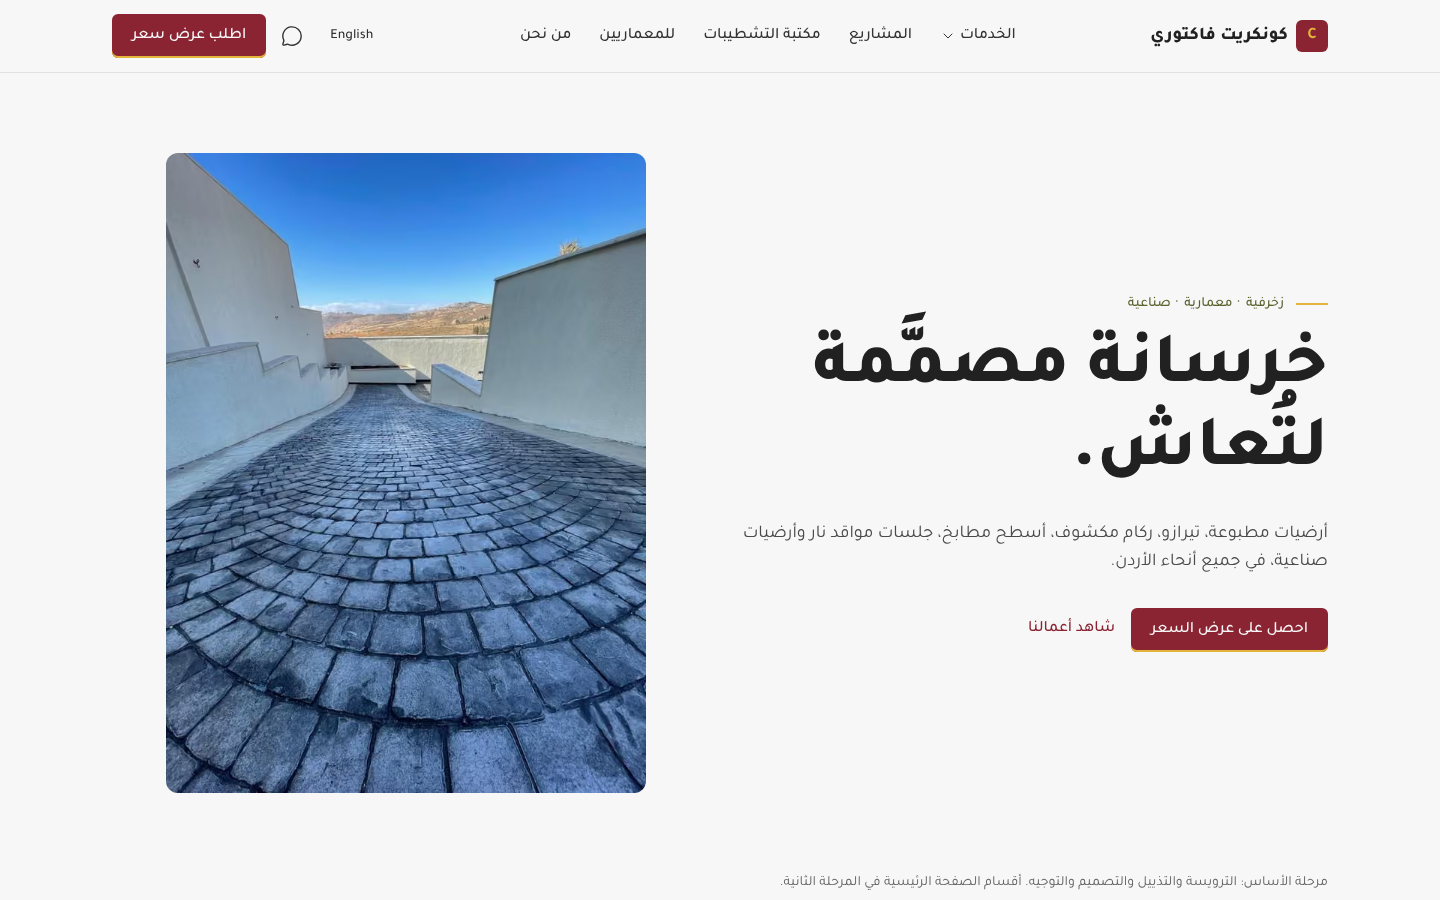
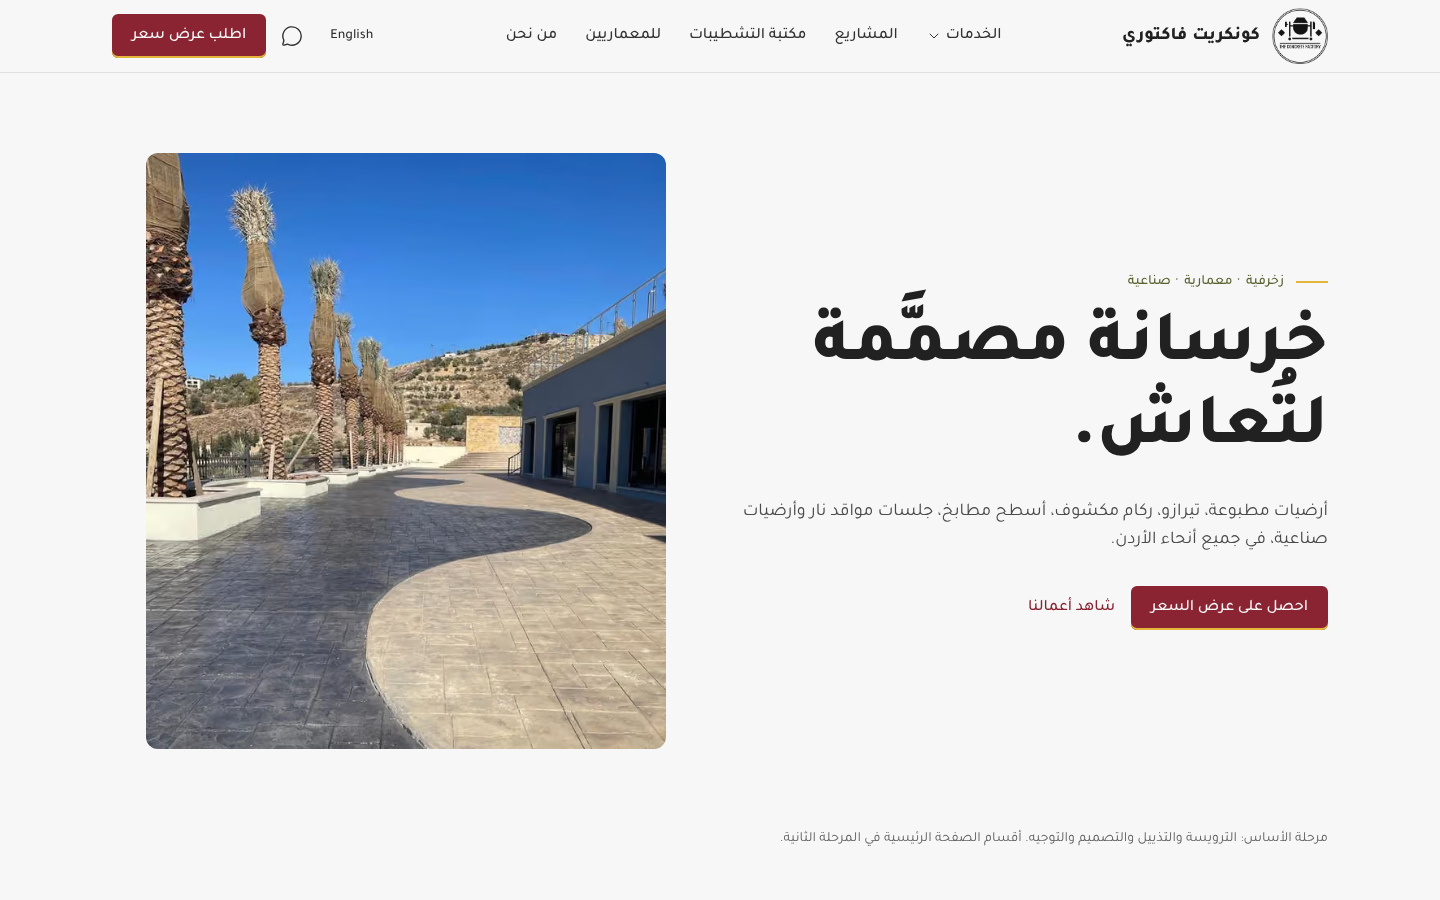
New hero photo, Oswald for all English text, 7 more photos
Hero: palm-lined plaza with two-tone stamped concrete.
Oswald replaces IBM Plex for body copy; Arabic stays Tajawal.
Countertop island photo cropped to remove people.

Claude-Session: https://claude.ai/code/session_019MF9PxEp6YBqT2vbAWwos9

diff --git a/src/app/[locale]/layout.tsx b/src/app/[locale]/layout.tsx
@@ -3,7 +3,7 @@ import { notFound } from "next/navigation";
 import { hasLocale, NextIntlClientProvider } from "next-intl";
 import { getTranslations, setRequestLocale } from "next-intl/server";
 import { routing, dirOf } from "@/i18n/routing";
-import { oswald, plex, tajawal } from "../fonts";
+import { oswald, tajawal } from "../fonts";
 import { Header } from "@/components/layout/Header";
 import { Footer } from "@/components/layout/Footer";
 import { MobileBar } from "@/components/layout/MobileBar";
@@ -34,7 +34,7 @@ export default async function LocaleLayout({ children, params }: { children: Rea
   const t = await getTranslations({ locale });
 
   return (
-    <html lang={locale} dir={dirOf(locale)} className={`${oswald.variable} ${plex.variable} ${tajawal.variable}`}>
+    <html lang={locale} dir={dirOf(locale)} className={`${oswald.variable} ${tajawal.variable}`}>
       <body>
         <NextIntlClientProvider>
           <a href="#main" className="sr-only-x focus:not-sr-only focus:fixed focus:start-4 focus:top-4 focus:z-50 focus:rounded-control focus:bg-n-900 focus:px-4 focus:py-3 focus:text-n-50">

diff --git a/src/app/fonts.ts b/src/app/fonts.ts
@@ -1,21 +1,11 @@
-import { Oswald, IBM_Plex_Sans, Tajawal } from "next/font/google";
+import { Oswald, Tajawal } from "next/font/google";
 
-/** Oswald: variable font, every weight 200-700. It ships no italic and no Arabic glyphs. */
+/** Oswald: the English typeface for everything (display and body). Variable, every weight 200-700; ships no italic and no Arabic glyphs. */
 export const oswald = Oswald({
   subsets: ["latin", "latin-ext"],
   variable: "--font-oswald",
   display: "swap",
   // weight omitted on purpose: loads the full variable range (ExtraLight to Bold)
-});
-
-/** All weights and both styles of IBM Plex Sans for body text. */
-export const plex = IBM_Plex_Sans({
-  subsets: ["latin", "latin-ext"],
-  weight: ["100", "200", "300", "400", "500", "600", "700"],
-  style: ["normal", "italic"],
-  variable: "--font-plex",
-  display: "swap",
-  preload: false,
 });
 
 /** Arabic: Tajawal, all weights. ExtraBold (800) is used for Arabic headlines and the wordmark. */

diff --git a/src/app/[locale]/page.tsx b/src/app/[locale]/page.tsx
@@ -25,8 +25,8 @@ export default async function Home({ params }: { params: Promise<{ locale: strin
             <Link href="/projects" className="inline-flex min-h-11 items-center font-medium text-maroon underline-offset-4 hover:underline">{t("seeWork")}</Link>
           </div>
         </div>
-        <div className="mx-auto w-full max-w-[480px] overflow-hidden rounded-card bg-n-100">
-          <Photo id="stamped-cobblestone-fan-driveway-01" locale={locale} priority sizes="(min-width: 768px) 480px, 100vw" />
+        <div className="mx-auto w-full max-w-[520px] overflow-hidden rounded-card bg-n-100">
+          <Photo id="stamped-plaza-palms-curve-01" locale={locale} priority sizes="(min-width: 768px) 520px, 100vw" />
         </div>
       </section>
       <p className="container-page text-sm text-n-600">{t("foundation")}</p>

diff --git a/src/app/globals.css b/src/app/globals.css
@@ -43,7 +43,7 @@
   --header-h: 72px;
 
   --f-display: var(--font-oswald), var(--font-tajawal), system-ui, sans-serif;
-  --f-body: var(--font-plex), var(--font-tajawal), system-ui, sans-serif;
+  --f-body: var(--font-oswald), var(--font-tajawal), system-ui, sans-serif;
 }
 /* Arabic: Tajawal throughout; ExtraBold for display */
 html[lang="ar"] {
@@ -108,11 +108,14 @@ body {
   background: var(--n-50);
   font-family: var(--f-body);
   font-size: var(--text-base);
-  line-height: 1.55;
+  font-weight: 400;
+  letter-spacing: 0.015em;
+  line-height: 1.6;
   text-rendering: optimizeLegibility;
 }
 html[lang="ar"] body {
-  line-height: 1.7; /* about +10% for Arabic */
+  line-height: 1.75; /* about +10% for Arabic */
+  letter-spacing: 0;
 }
 
 h1, h2, h3 {

diff --git a/docs/PHASE0_PLAN.md b/docs/PHASE0_PLAN.md
@@ -60,7 +60,7 @@ All as CSS variables in `app/globals.css` and mapped into the Tailwind v4 `@them
 
 Rule: yellow never carries text on light surfaces; everything else in the revised palette passes AA on the surfaces it is used on.
 
-Fonts: Oswald (display, all weights 200-700; no italic exists), IBM Plex Sans (EN body), Tajawal (AR; ExtraBold for display, regular for body; +10% line-height). Loaded with `next/font/google`, which self-hosts at build time (reachable from this environment).
+Fonts: Oswald (display, all weights 200-700; no italic exists), Oswald (EN body too; client decision), Tajawal (AR; ExtraBold for display, regular for body; +10% line-height). Loaded with `next/font/google`, which self-hosts at build time (reachable from this environment).
 
 ## 4. Wireframe descriptions
 
@@ -190,3 +190,9 @@ Added to `assets/manifest.json` (EXIF/GPS stripped on import). Client approved t
 The red sealed fan-cobble swatch is the strongest on-brand (maroon) image for the home Finish Library teaser.
 
 Four more samples (also approved): `stamped-flagstone-pebble-blue-01`, `stamped-rock-rose-terracotta-01` (Finish Library swatches), `stamped-brick-terracotta-floor-01` (stamped gallery, installed floor, ≤1024 px), `terrazzo-cream-multi-chip-01` (terrazzo swatch). Colour/pattern names still to be confirmed.
+
+## 12. Changes after client feedback
+- **Hero** is now `stamped-plaza-palms-curve-01` (palm-lined plaza, two-tone stamped concrete). Still portrait (1117×1280), so the split layout stays. The old fan-driveway photo is a regular project photo.
+- **Typography:** Oswald for all English text (display and body). Arabic stays Tajawal (Oswald has no Arabic glyphs).
+- **Photo privacy:** `countertop-island-cutout-01` is cropped to remove two people from the original frame.
+- 7 more photos added (42 total): plaza ×2, courtyard, two low-angle stamped shots, two countertops.
